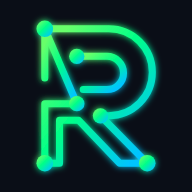
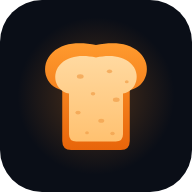
V.5: ícono de la app con rodaja de pan naranja
El ícono de la app instalada y la pestaña pasa a una rodaja de pan naranja
sobre fondo oscuro. El logo de Rinze Studio se queda dentro del centro.

Claude-Session: https://claude.ai/code/session_017NGtnFDwfN1nwShZecr9st

diff --git a/index.html b/index.html
@@ -7,9 +7,9 @@
 <meta name="apple-mobile-web-app-capable" content="yes">
 <meta name="apple-mobile-web-app-status-bar-style" content="black-translucent">
 <title>Centro de Control · Rinze Studio</title>
-<link rel="icon" href="/icons/icon.svg" type="image/svg+xml">
+<link rel="icon" href="/icons/icon.svg?v=5" type="image/svg+xml">
 <link rel="manifest" href="/manifest.webmanifest">
-<link rel="apple-touch-icon" href="/icons/apple-touch-icon.png">
+<link rel="apple-touch-icon" href="/icons/apple-touch-icon.png?v=5">
 <meta name="apple-mobile-web-app-title" content="Centro">
 <link rel="preconnect" href="https://fonts.googleapis.com">
 <link href="https://fonts.googleapis.com/css2?family=Inter:wght@400;500;600;700&family=JetBrains+Mono:wght@500&display=swap" rel="stylesheet">
@@ -183,7 +183,7 @@ svg.i.sm{width:18px;height:18px}
 </div>
 
 <script>
-const VERSION = 'V.4';
+const VERSION = 'V.5';
 
 /* Copia de respaldo del registro. La fuente principal es apps.json. */
 const RESPALDO = [

diff --git a/sw.js b/sw.js
@@ -4,7 +4,7 @@
    aquí: cada una maneja sus datos y su propia sincronización.
    La página y apps.json van primero a la red, para que un cambio publicado se
    vea al abrir; si no hay conexión, se usa la copia guardada. */
-const CACHE = 'centro-V.4';
+const CACHE = 'centro-V.5';
 const BASE = ['/', '/index.html', '/apps.json', '/manifest.webmanifest',
   '/icons/icon-192.png', '/icons/icon-512.png', '/icons/apple-touch-icon.png', '/icons/icon.svg'];
 

diff --git a/README.md b/README.md
@@ -49,6 +49,7 @@ vez que el centro vuelve a mostrar una app le manda el mensaje
 
 La versión visible está en `index.html` (`VERSION`). Cada actualización la sube.
 
+- **V.5** — Ícono de la app instalada: rodaja de pan naranja sobre fondo oscuro. El logo de Rinze Studio sigue dentro del centro.
 - **V.4** — Logo oficial de Rinze Studio. Barra lateral compacta: cada app es un ícono con su nombre en letra pequeña. Orden: Producción, Entregas, Agenda, Desviaciones.
 - **V.3** — Instalable como app (PWA): ícono, pantalla completa, accesos directos a cada app y funciona sin conexión para abrir el centro.
 - **V.2** — Avisa a la app que se vuelve a mostrar para que traiga lo último de su nube.
